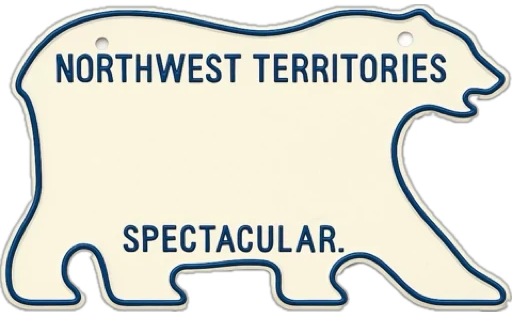
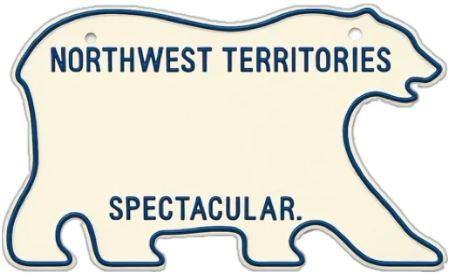
Fix form

diff --git a/app/province/[province]/page.tsx b/app/province/[province]/page.tsx
@@ -16,12 +16,6 @@ import { TranslationsProvider } from "@/context/TranslationsContext";
 import { useRef } from "react";
 
 
-type RatingData = {
-  up: number;
-  down: number;
-  userVote?: "up" | "down";
-};
-
 type CommentData = {
   id: string;
   plate: string;
@@ -47,11 +41,8 @@ export default function ProvincePage() {
   const [clientDates, setClientDates] = useState<Record<string, string>>({});
   const cleaned = rawProvince.replace(/[^\w]/gi, "").toLowerCase();
   const provinceSlug = decodeURIComponent(cleaned);
-  const [ratings, setRatings] = useState<Record<string, RatingData>>({});
-  const stored = typeof window !== "undefined" ? localStorage.getItem("user") : null;
-  const parsed = stored ? JSON.parse(stored) : null;
-  const email = parsed?.email || "guest";
-  const finalEmail = email === "guest" ? `guest-${provinceSlug}@myplatecheck.com` : email;
+  const [ratings, setRatings] = useState<Record<string, { up: number; down: number; userVote?: "up" | "down" }>>({});
+
   const [translationsMap, setTranslationsMap] = useState<Record<string, Record<string, string>>>({});
 
 const fetchedLangsRef = useRef<Set<string>>(new Set());
@@ -78,11 +69,14 @@ useEffect(() => {
 
       const commentIds = data.map((c: CommentData) => c.id).filter(id => !!id);
 
-      // 👍 Рейтинг
+      // 👍 Рейтинг (із getFinalEmail)
+      const { getFinalEmail } = await import("@/utils/getFinalEmail");
+      const email = getFinalEmail();
+
       const ratingRes = await fetch("/api/comment-rating/batch", {
         method: "POST",
         headers: { "Content-Type": "application/json" },
-        body: JSON.stringify({ commentIds, email: finalEmail }),
+        body: JSON.stringify({ commentIds, email }),
       });
       const ratingData = await ratingRes.json();
       setRatings(ratingData);
@@ -94,6 +88,8 @@ useEffect(() => {
 
   fetchAll();
 }, [provinceSlug, lang]);
+;
+
 
 useEffect(() => {
   const untranslated = comments.filter((c) => c.language !== lang);
@@ -202,7 +198,17 @@ useEffect(() => {
       className="w-full h-full object-contain"
     />
                        <div className="absolute inset-0 flex items-center justify-center">
-                      <span className="text-[15px] sm:text-[21px] font-bold tracking-[0.015em] text-blue-900 drop-shadow scale-y-125">
+                      <span
+  className="absolute top-1/2 left-1/2 -translate-x-1/2 -translate-y-1/2 text-blue-900"
+  style={{
+    fontSize: "22px",
+    fontWeight: 600,
+    transform: "translate(-50%, -50%) scaleX(0.82) scaleY(1.35)",
+    letterSpacing: "-0.03em",
+    fontFamily: "'Inter', sans-serif",
+    whiteSpace: "nowrap",
+  }}
+>
                        {c.plate}
                      </span>
                      </div>

diff --git a/app/page.tsx b/app/page.tsx
@@ -15,7 +15,7 @@ import TranslatedComment from "../components/TranslatedComment";
 import { provinceAbbreviations } from "@/utils/provinceAbbreviations";
 import { TranslationsProvider } from "@/context/TranslationsContext";
 import { useRef } from "react";
-
+import { getFinalEmail } from "@/utils/getFinalEmail";
 
 
 type MediaItem = {
@@ -142,7 +142,7 @@ useEffect(() => {
   const untranslated = paginatedComments.filter((c) => c.language !== lang);
   if (untranslated.length === 0) return;
 
-  if (fetchedLangsRef.current.has(lang)) return; // ✅ вже був запит для цієї мови
+  if (fetchedLangsRef.current.has(lang)) return; 
 
   const ids = untranslated.map((c) => c.id);
 
@@ -306,28 +306,27 @@ useEffect(() => {
 
 useEffect(() => {
   async function fetchRatings() {
-  const commentIds = comments.map((c) => c.id); // ✅ ТУТ ФОРМУЄМО
-  if (commentIds.length === 0) return;
+    const commentIds = comments.map((c) => c.id);
+    if (commentIds.length === 0) return;
 
-  try {
-    const user = localStorage.getItem("user");
-const email = user ? JSON.parse(user).email : "guest";
+    try {
+      const email = getFinalEmail(); 
 
-const res = await fetch("/api/comment-rating/batch", {
-  method: "POST",
-  headers: { "Content-Type": "application/json" },
-  body: JSON.stringify({ commentIds, email }), // ✅ тепер і commentIds, і email
-});
-    const data = await res.json();
-    setRatings(data); // ✅ не забудь зберегти
-  } catch (err) {
-    console.error("Rating fetch error", err);
+      const res = await fetch("/api/comment-rating/batch", {
+        method: "POST",
+        headers: { "Content-Type": "application/json" },
+        body: JSON.stringify({ commentIds, email }),
+      });
+
+      const data = await res.json();
+      setRatings(data);
+    } catch (err) {
+      console.error("Rating fetch error", err);
+    }
   }
-}
-
 
   fetchRatings();
-}, [comments]); // 🔁 не забути додати comments у залежності
+}, [comments]);
 
 
 useEffect(() => {
@@ -397,7 +396,17 @@ useEffect(() => {
       className="w-full h-full object-contain"
     />
     <div className="absolute inset-0 flex items-center justify-center">
-      <span className="text-[15px] sm:text-[21px] font-bold tracking-[0.015em] text-blue-900 drop-shadow scale-y-125">
+      <span
+  className="absolute top-1/2 left-1/2 -translate-x-1/2 -translate-y-1/2 text-blue-800"
+  style={{
+    fontSize: "22px",
+    fontWeight: 600,
+    transform: "translate(-50%, -50%) scaleX(0.82) scaleY(1.35)",
+    letterSpacing: "-0.03em",
+    fontFamily: "'Inter', sans-serif",
+    whiteSpace: "nowrap",
+  }}
+>
         {c.plate}
       </span>
     </div>

diff --git a/app/plate/[province]/[plate]/page.tsx b/app/plate/[province]/[plate]/page.tsx
@@ -15,7 +15,7 @@ import TranslatedComment from "../../../../components/TranslatedComment";
 import BadgeList from "../../../../components/BadgeList";
 import { provinceAbbreviations } from "@/utils/provinceAbbreviations";
 import { TranslationsProvider } from "@/context/TranslationsContext";
-
+import { getFinalEmail } from "@/utils/getFinalEmail";
 
 type RatingData = {
   up: number;
@@ -94,9 +94,7 @@ export default function PlatePage() {
         const allReplies = Object.values(replies).flat();
         const replyIds = allReplies.map(r => r.id);
 
-        const stored = localStorage.getItem("user");
-        const email = stored ? JSON.parse(stored)?.email || "guest" : "guest";
-        const finalEmail = email === "guest" ? `guest-${plateCode}@myplatecheck.com` : email;
+        const finalEmail = getFinalEmail();
 
         fetch("/api/reply-rating/batch", {
           method: "POST",
@@ -145,10 +143,8 @@ export default function PlatePage() {
   useEffect(() => {
     if (comments.length === 0) return;
 
-    const stored = localStorage.getItem("user");
-    const email = stored ? JSON.parse(stored)?.email || "guest" : "guest";
 
-    const finalEmail = email === "guest" ? `guest-${plateCode}@myplatecheck.com` : email;
+    const finalEmail = getFinalEmail();
 
     fetch("/api/comment-rating/batch", {
       method: "POST",
@@ -232,7 +228,8 @@ useEffect(() => {
       }));
     })
     .catch(err => console.error("❌ Live translation fetch error:", err));
-}, [replyMap, lang]);
+}, [replyMap, lang, translationsMap]);
+
 
 function getEmbedHTML(url: string): string | null {
   if (!url) return null;
@@ -401,7 +398,17 @@ useEffect(() => {
   height={75}
   className="w-full h-full object-contain"
 />
-          <span className="absolute top-[50%] left-1/2 -translate-x-1/2 -translate-y-1/2 text-[18px] font-bold tracking-[0.015em] text-blue-900 drop-shadow scale-y-125">{plateCode}</span>
+          <span
+  className="absolute top-1/2 left-1/2 -translate-x-1/2 -translate-y-1/2 text-blue-900"
+  style={{
+    fontSize: "16px",
+    fontWeight: 600,
+    transform: "translate(-50%, -50%) scaleX(0.82) scaleY(1.35)",
+    letterSpacing: "-0.03em",
+    fontFamily: "'Inter', sans-serif",
+    whiteSpace: "nowrap",
+  }}
+>{plateCode}</span>
         </div>
         <div className="flex flex-col justify-center">
           <div className="text-xl font-semibold text-gray-800 mb-2">CAR</div>

diff --git a/app/rankings/page.tsx b/app/rankings/page.tsx
@@ -67,9 +67,20 @@ export default function RatingPage() {
               height={45}
               className="object-contain w-full h-full shadow-sm rounded"
             />
-            <span className="absolute top-1/2 left-1/2 -translate-x-1/2 -translate-y-1/2 text-[13px] font-bold tracking-wide text-blue-900 scale-y-110">
-              {item.plate}
-            </span>
+            <span
+  className="absolute top-1/2 left-1/2 -translate-x-1/2 -translate-y-1/2 text-blue-900"
+  style={{
+    fontSize: "14px",
+    fontWeight: 600,
+    transform: "translate(-50%, -50%) scaleX(0.82) scaleY(1.35)",
+    letterSpacing: "-0.03em",
+    fontFamily: "'Inter', sans-serif",
+    whiteSpace: "nowrap",
+  }}
+>
+  {item.plate}
+</span>
+
           </div>
         </Link>
       </td>

diff --git a/utils/getFinalEmail.ts b/utils/getFinalEmail.ts
@@ -1,0 +1,17 @@
+export function getFinalEmail(): string {
+  if (typeof window === "undefined") return "guest@myplatecheck.com";
+
+  const stored = localStorage.getItem("user");
+  try {
+    const parsed = stored ? JSON.parse(stored) : null;
+    if (parsed?.email && parsed.email !== "guest") return parsed.email;
+  } catch {}
+
+  let guestId = localStorage.getItem("guestId");
+  if (!guestId) {
+    guestId = crypto.randomUUID();
+    localStorage.setItem("guestId", guestId);
+  }
+
+  return `guest-${guestId}@myplatecheck.com`;
+}
